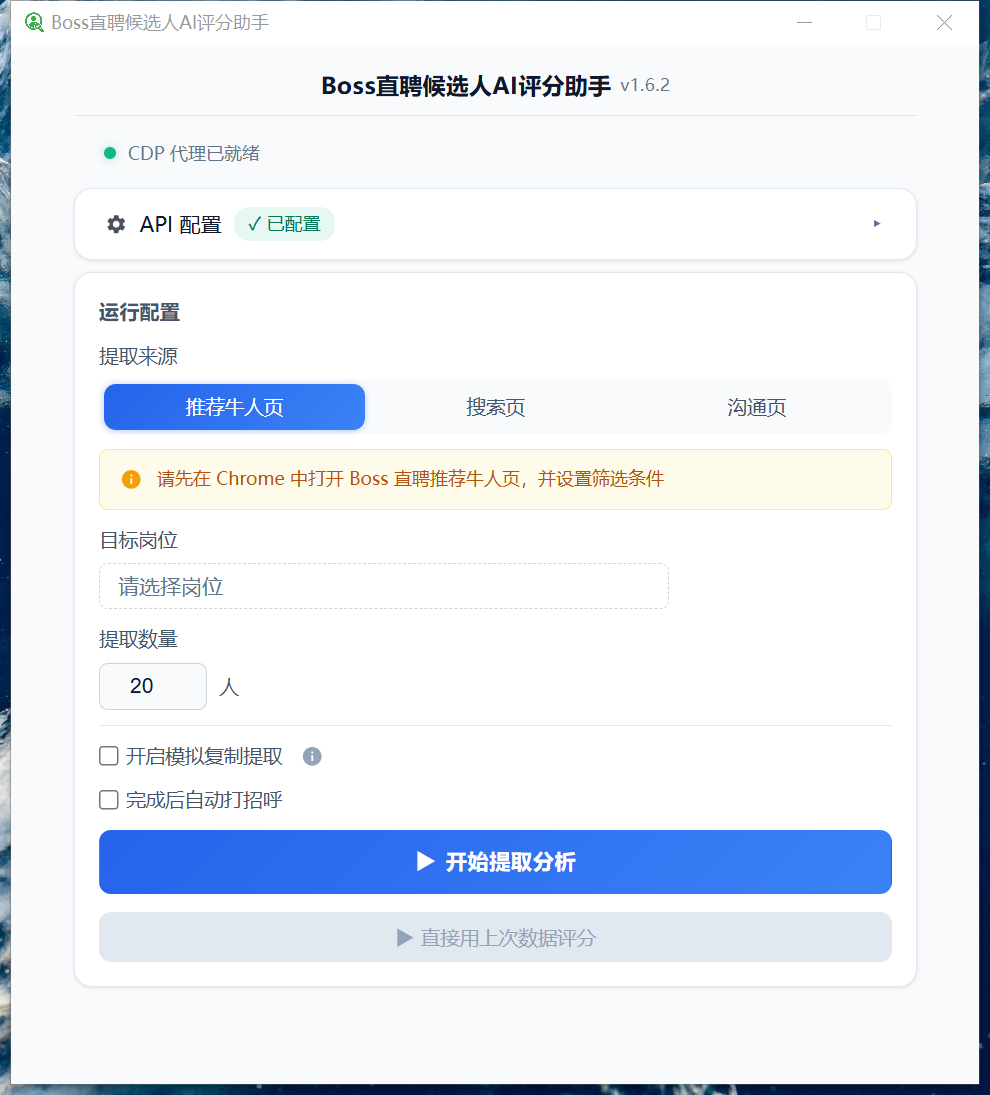
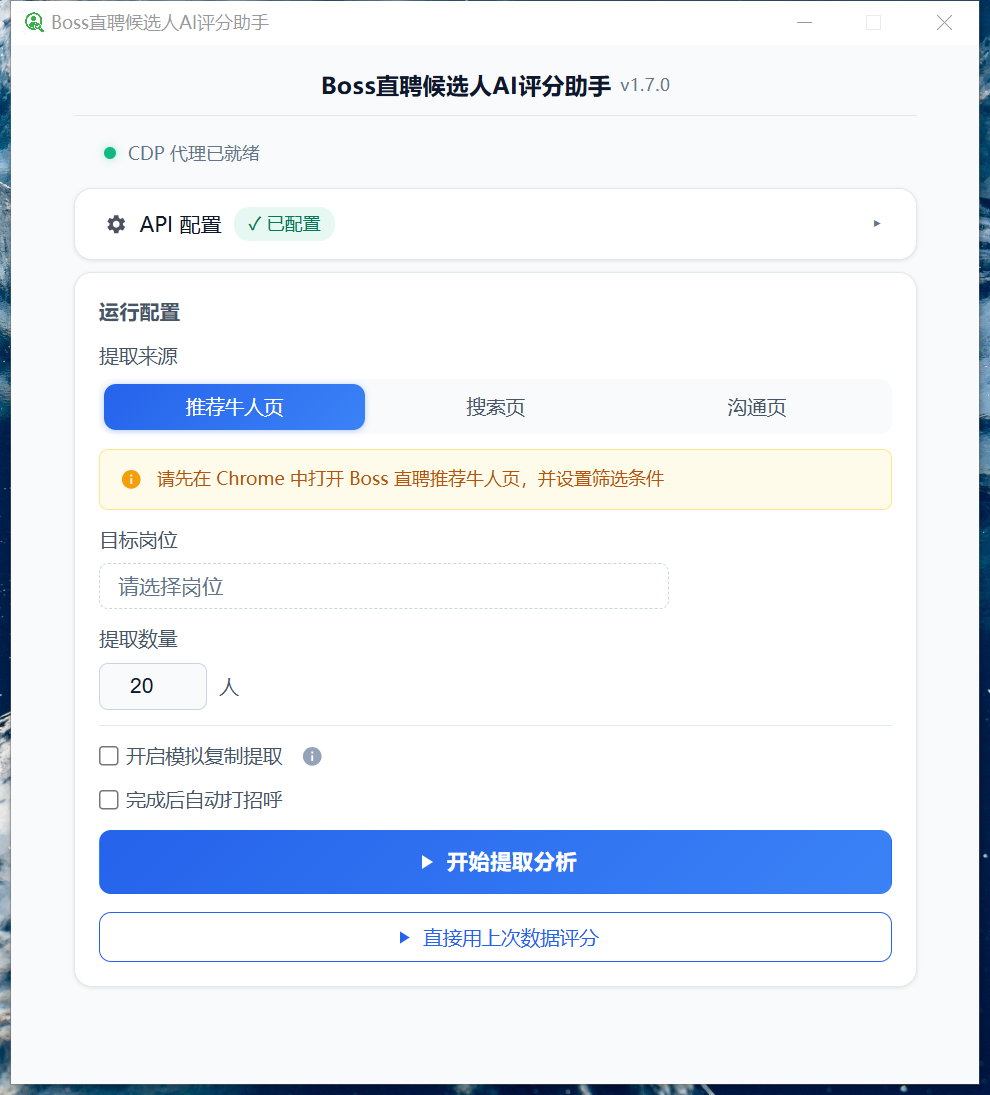
v1.8.0：历史记录可评分、上次数据评分放宽到提一半也能用
- 历史记录批次加「评分」按钮（含提一半/跑完的批次，跑完的会清旧评分重评）
- 「直接用上次数据评分」放宽：只要提取过简历就能用，数据被归档自动找回
- 历史记录读取逻辑优化（hasScorableCandidates/readScorableCandidates 拆分）

diff --git a/electron/renderer/renderer.js b/electron/renderer/renderer.js
@@ -1191,14 +1191,14 @@ function renderHistoryItem(item) {
     }));
   }
 
-  // 用该份数据重新评分：该批次有提取数据（换模型后重评）
-  if (item.hasCandidates) {
-    actions.appendChild(makeBtn('用该份数据重新评分', 'btn--secondary', async () => {
-      const res = await window.electronAPI.rescoreFromHistory(item.path);
-      if (res?.error) { showToast(res.error, 'warning', 4000); return; }
+  // 评分：该批次有简历数据就能评（完整提取 / 提了一半 / 已评分均可，换模型后重评）
+  if (item.hasScorable) {
+    actions.appendChild(makeBtn('评分', 'btn--secondary', async () => {
       closeHistoryDrawer();
       resetSteps();
-      showState('state-running');
+      showState('state-running'); // 先切界面再发请求，步骤1 进度条才和主页「直接用上次数据评分」一致
+      const res = await window.electronAPI.rescoreFromHistory(item.path);
+      if (res?.error) { showToast(res.error, 'warning', 4000); showState('state-initial'); }
     }));
   }
 

diff --git a/README.md b/README.md
@@ -219,7 +219,7 @@
 
 - **跳过提取**：已经提取了一部分、不想等了，可以点「跳过提取候选人」，用已提取的数据直接开始评分
 - **暂停 / 继续提取**：提取中途想歇一下，可以点「暂停」，软件会把当前这位候选人读完再停（最多再等几秒），按钮变成「▶ 继续」；点一下就从下一位接着提取，已提取的人不丢，评分也不受影响
-- **直接用上次数据评分**：上次提取完但评分没跑好（比如模型/接口出错）时，换好模型后点「▶ 直接用上次数据评分」——**不重新提取**，直接用上次的候选人数据重新评分。上次的数据目录即使已被自动归档，软件也能自动找回；没有可用数据时这个按钮是置灰的
+- **直接用上次数据评分**：只要上次提取过简历——哪怕只提取了一部分就取消、哪怕已经跑完整——都能点「▶ 直接用上次数据评分」**不重新提取**，直接用已有简历评分（换好模型后重新评也行）。上次的数据目录即使已被自动归档，软件也能自动找回；没有可用数据时这个按钮是置灰的
 - **取消**：点「取消」停止本次任务。提取中途取消的话，进度会保存下来，之后在「历史记录」里选这一批点**「继续提取」**，接着上次的位置继续跑，不重复已提取的人
 
 ### 完成后
@@ -239,7 +239,7 @@
 
 - **打开输出目录** —— 找到这批发给你的 Excel
 - **继续提取** —— 这一批复提取到一半取消了，点这里接着上次的位置继续跑，不重复已提取的人
-- **用这份数据重新评分** —— 换好模型/岗位描述后，直接用这一批提取的候选人数据重新评分，不用重新提取
+- **评分** —— 只要这一批提取过简历（哪怕只提了一半就取消、哪怕已经跑完），都能直接用这批数据评分，不用重新提取；换好模型/岗位描述后重新评也行
 - **删除** —— 删掉这一批的本地数据（不影响已导出的 Excel）
 
 ### 打分与打招呼的分数门槛

diff --git a/RELEASE_NOTES.md b/RELEASE_NOTES.md
@@ -1,5 +1,13 @@
 ## 更新内容（9月1日）
 
+### v1.8.0 更新内容
+
+- **历史记录里可以直接「评分」了**：打开历史记录，每个跑过提取的批次旁边都多了个「评分」按钮——不管上次是提了一半就取消，还是已经完整跑完，只要里面有简历就能直接评分，不用重新提取
+- **跑完的批次也能重评**：以前已评完、导完 Excel 的批次只能看不能评；现在点「评分」会用已有简历重新评一遍（旧的评分会清掉重来，换模型或调了提示词后重评效果更明显）
+- **「直接用上次数据评分」放宽**：以前只有「提取全部完成」才允许用上次数据评分，现在只要上次提取出来过简历就能用——哪怕只提了一部分就取消，也能接着这半批直接评分；数据被自动归档了也会自动找回来用
+- **历史记录按钮精简**：历史里每个批次的操作按钮整合成「评分」，界面更清爽
+- **打开历史记录更流畅**：读取历史记录的逻辑做了优化，点开抽屉更快、不卡
+
 ### v1.7.0 更新内容
 
 - **提取中途可以「暂停」了**：批量提取候选人时，想歇一下或处理别的事，点「暂停」等当前这位读完就停下（最多再等几秒），按钮变成「▶ 继续」；点一下就从下一位接着提取，已提取的人不丢、评分照常进行，不用再为停一下整批取消
